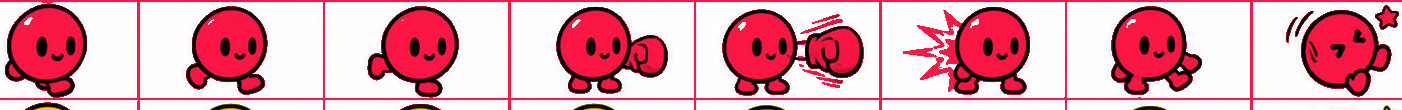
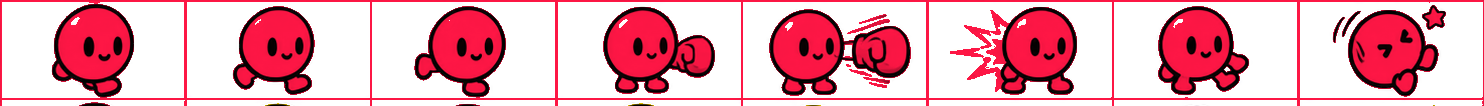
크림슨~라즈베리 기본형 스프라이트 배경 투명 처리 재작업
기존 개별 스프라이트 파일(crimson_sheet.png 등)의 알파 채널이 깨져
있어(배경 픽셀에 알파 값과 색상이 뒤섞여 들어감) 게임 필드 위에서
캐릭터 주위로 어두운 사각형 얼룩이 보이는 문제가 있었다.

원본 흰 배경 시트(new-characters-basic-combat-sheet.png, 배경 픽셀이
깨끗한 흰색임을 확인)에서 흰색→투명 변환을 다시 수행하고, 캐릭터별
행을 그대로 잘라 10개 파일을 재생성했다. 좌표는 원래 위치를 유지한
채 각 파일의 세로 오프셋만 반영해 game.js의 NEW_ATLASES 좌표를
갱신했다(진화형 시트는 이미 정상이라 변경 없음).

투명 배경을 어두운 배경(#151b2a) 위에 합성해 얼룩 없음을 픽셀 단위로
확인, 48스테이지 시뮬레이션 및 10명 전원 전체 프레임 순회로 에러 없음
확인, 실제 게임 화면 스크린샷으로 깨끗한 렌더링 확인.

diff --git a/game.js b/game.js
@@ -448,15 +448,15 @@ croco:{"scale": 0.72, "left": -10, "walk": [[1, 28, 85, 42], [89, 28, 85, 42], [
 
  pigge:{scale:.8,left:-20,walk:[[4,1,103,77],[4,79,103,76],[4,157,103,76],[115,5,104,73],[112,80,109,76],[115,158,104,75]],attack:[[225,1,126,104],[225,107,126,67],[225,177,126,67]],hurt:[[355,3,124,65],[368,72,103,65]]},
  crimson:{scale:0.65,left:-7,sheet:CRIMSON_SHEET,walk:[[4,3,83,95],[186,6,81,89],[367,6,91,92]],attack:[[556,6,111,89],[722,9,141,86],[1111,6,90,88]],hurt:[[1286,5,112,91]],evolved:{sheet:NEWCHAR_EVOLVED_SHEET,walk:[[55,2,76,104],[235,2,74,104],[414,2,83,104]],attack:[[605,2,107,104],[772,2,133,104],[1158,3,89,103]],hurt:[[1333,4,112,93]]}},
- gold:{scale:0.7,left:-8,sheet:GOLD_SHEET,walk:[[4,4,80,90],[188,4,78,88],[370,4,86,90]],attack:[[551,4,111,90],[724,4,149,90],[1106,4,124,90]],hurt:[[1284,4,115,90]],evolved:{sheet:NEWCHAR_EVOLVED_SHEET,walk:[[56,106,71,106],[239,106,71,106],[419,106,78,106]],attack:[[601,106,107,106],[773,106,145,106],[1161,106,118,106]],hurt:[[1333,106,114,106]]}},
- ivory:{scale:0.7,left:-8,sheet:IVORY_SHEET,walk:[[4,4,80,85],[186,4,79,84],[364,4,93,85]],attack:[[549,4,119,85],[725,4,152,85],[1106,4,91,84]],hurt:[[1283,4,116,84]],evolved:{sheet:NEWCHAR_EVOLVED_SHEET,walk:[[40,212,83,106],[232,212,75,106],[413,212,82,106]],attack:[[583,212,131,106],[761,212,164,106],[1149,212,82,106]],hurt:[[1332,212,115,106]]}},
- chartreuse:{scale:0.7,left:-7,sheet:CHARTREUSE_SHEET,walk:[[4,4,79,77],[188,4,78,77],[367,4,89,77]],attack:[[548,4,136,77],[728,4,146,77],[1107,4,99,76]],hurt:[[1285,4,114,77]],evolved:{sheet:NEWCHAR_EVOLVED_SHEET,walk:[[52,318,70,106],[236,318,71,106],[417,318,78,106]],attack:[[599,318,130,106],[780,318,137,106],[1161,318,88,106]],hurt:[[1334,318,114,106]]}},
- mint:{scale:0.7,left:-8,sheet:MINT_SHEET,walk:[[4,4,80,70],[187,4,80,69],[370,4,89,70]],attack:[[549,4,123,69],[726,4,149,70],[1106,4,91,69]],hurt:[[1285,4,117,70]],evolved:{sheet:NEWCHAR_EVOLVED_SHEET,walk:[[49,424,74,106],[234,424,73,106],[414,424,81,106]],attack:[[593,424,124,106],[767,424,151,106],[1154,424,82,106]],hurt:[[1333,424,117,106]]}},
- azure:{scale:0.55,left:-13,sheet:AZURE_SHEET,walk:[[4,4,123,80],[187,4,123,77],[374,4,121,75]],attack:[[555,4,117,75],[746,4,132,79],[1111,4,124,77]],hurt:[[1299,4,130,77]],evolved:{sheet:NEWCHAR_EVOLVED_SHEET,walk:[[41,530,118,106],[224,530,120,106],[409,530,117,106]],attack:[[591,530,117,106],[784,530,125,106],[1148,530,123,106]],hurt:[[1338,530,127,106]]}},
- crystal:{scale:0.7,left:-8,sheet:CRYSTAL_SHEET,walk:[[4,4,80,74],[186,4,81,74],[370,4,88,75]],attack:[[541,4,87,74],[725,4,116,74],[1108,4,77,72]],hurt:[[1285,4,113,75]],evolved:{sheet:NEWCHAR_EVOLVED_SHEET,walk:[[56,636,70,106],[239,636,67,106],[423,636,74,106]],attack:[[602,636,74,106],[782,636,86,106],[1162,636,72,106]],hurt:[[1334,636,112,106]]}},
- lavender:{scale:0.7,left:-8,sheet:LAVENDER_SHEET,walk:[[4,4,81,70],[184,4,83,70],[366,4,94,70]],attack:[[545,4,136,70],[728,4,152,70],[1105,4,115,70]],hurt:[[1274,4,146,70]],evolved:{sheet:NEWCHAR_EVOLVED_SHEET,walk:[[55,742,75,106],[233,742,80,106],[413,742,90,106]],attack:[[599,742,125,106],[775,742,150,106],[1157,742,107,106]],hurt:[[1318,742,147,106]]}},
- salmon:{scale:0.7,left:-9,sheet:SALMON_SHEET,walk:[[4,4,84,70],[184,4,86,70],[368,4,95,72]],attack:[[540,4,145,72],[726,4,131,72],[1102,4,129,70]],hurt:[[1271,4,148,73]],evolved:{sheet:NEWCHAR_EVOLVED_SHEET,walk:[[46,848,78,106],[233,848,74,106],[415,848,80,106]],attack:[[590,848,139,106],[768,848,128,106],[1152,848,124,106]],hurt:[[1315,848,148,106]]}},
- raspberry:{scale:0.7,left:-9,sheet:RASPBERRY_SHEET,walk:[[4,4,84,81],[184,4,86,81],[368,4,92,81]],attack:[[539,4,144,82],[723,4,146,82],[1108,4,133,83]],hurt:[[1267,4,140,95]],evolved:{sheet:NEWCHAR_EVOLVED_SHEET,walk:[[30,954,95,95],[216,954,93,94],[408,954,88,95]],attack:[[577,954,149,93],[754,954,154,94],[1139,954,148,93]],hurt:[[1319,954,123,93]]}},
+ gold:{scale:0.7,left:-8,sheet:GOLD_SHEET,walk:[[53,0,80,106],[237,0,78,106],[419,0,86,106]],attack:[[600,0,111,106],[773,0,149,106],[1155,0,124,106]],hurt:[[1333,0,115,106]],evolved:{sheet:NEWCHAR_EVOLVED_SHEET,walk:[[56,106,71,106],[239,106,71,106],[419,106,78,106]],attack:[[601,106,107,106],[773,106,145,106],[1161,106,118,106]],hurt:[[1333,106,114,106]]}},
+ ivory:{scale:0.7,left:-8,sheet:IVORY_SHEET,walk:[[53,0,80,106],[235,0,79,106],[413,0,93,106]],attack:[[598,0,119,106],[774,0,152,106],[1155,0,91,106]],hurt:[[1332,0,116,106]],evolved:{sheet:NEWCHAR_EVOLVED_SHEET,walk:[[40,212,83,106],[232,212,75,106],[413,212,82,106]],attack:[[583,212,131,106],[761,212,164,106],[1149,212,82,106]],hurt:[[1332,212,115,106]]}},
+ chartreuse:{scale:0.7,left:-7,sheet:CHARTREUSE_SHEET,walk:[[53,0,79,106],[237,0,78,106],[416,0,89,106]],attack:[[597,0,136,106],[777,0,146,106],[1156,0,99,106]],hurt:[[1334,0,114,106]],evolved:{sheet:NEWCHAR_EVOLVED_SHEET,walk:[[52,318,70,106],[236,318,71,106],[417,318,78,106]],attack:[[599,318,130,106],[780,318,137,106],[1161,318,88,106]],hurt:[[1334,318,114,106]]}},
+ mint:{scale:0.7,left:-8,sheet:MINT_SHEET,walk:[[52,0,80,106],[235,0,80,106],[418,0,89,106]],attack:[[597,0,123,106],[774,0,149,106],[1154,0,91,106]],hurt:[[1333,0,117,106]],evolved:{sheet:NEWCHAR_EVOLVED_SHEET,walk:[[49,424,74,106],[234,424,73,106],[414,424,81,106]],attack:[[593,424,124,106],[767,424,151,106],[1154,424,82,106]],hurt:[[1333,424,117,106]]}},
+ azure:{scale:0.55,left:-13,sheet:AZURE_SHEET,walk:[[41,0,123,106],[224,0,123,106],[411,0,121,106]],attack:[[592,0,117,106],[783,0,132,106],[1148,0,124,106]],hurt:[[1336,0,130,106]],evolved:{sheet:NEWCHAR_EVOLVED_SHEET,walk:[[41,530,118,106],[224,530,120,106],[409,530,117,106]],attack:[[591,530,117,106],[784,530,125,106],[1148,530,123,106]],hurt:[[1338,530,127,106]]}},
+ crystal:{scale:0.7,left:-8,sheet:CRYSTAL_SHEET,walk:[[52,0,80,106],[234,0,81,106],[418,0,88,106]],attack:[[589,0,87,106],[773,0,116,106],[1156,0,77,106]],hurt:[[1333,0,113,106]],evolved:{sheet:NEWCHAR_EVOLVED_SHEET,walk:[[56,636,70,106],[239,636,67,106],[423,636,74,106]],attack:[[602,636,74,106],[782,636,86,106],[1162,636,72,106]],hurt:[[1334,636,112,106]]}},
+ lavender:{scale:0.7,left:-8,sheet:LAVENDER_SHEET,walk:[[50,0,81,106],[230,0,83,106],[412,0,94,106]],attack:[[591,0,136,106],[774,0,152,106],[1151,0,115,106]],hurt:[[1320,0,146,106]],evolved:{sheet:NEWCHAR_EVOLVED_SHEET,walk:[[55,742,75,106],[233,742,80,106],[413,742,90,106]],attack:[[599,742,125,106],[775,742,150,106],[1157,742,107,106]],hurt:[[1318,742,147,106]]}},
+ salmon:{scale:0.7,left:-9,sheet:SALMON_SHEET,walk:[[49,0,84,106],[229,0,86,106],[413,0,95,106]],attack:[[585,0,145,106],[771,0,131,106],[1147,0,129,106]],hurt:[[1316,0,148,106]],evolved:{sheet:NEWCHAR_EVOLVED_SHEET,walk:[[46,848,78,106],[233,848,74,106],[415,848,80,106]],attack:[[590,848,139,106],[768,848,128,106],[1152,848,124,106]],hurt:[[1315,848,148,106]]}},
+ raspberry:{scale:0.7,left:-9,sheet:RASPBERRY_SHEET,walk:[[50,0,84,81],[230,0,86,81],[414,0,92,81]],attack:[[585,0,144,82],[769,0,146,82],[1154,0,133,83]],hurt:[[1313,0,140,95]],evolved:{sheet:NEWCHAR_EVOLVED_SHEET,walk:[[30,954,95,95],[216,954,93,94],[408,954,88,95]],attack:[[577,954,149,93],[754,954,154,94],[1139,954,148,93]],hurt:[[1319,954,123,93]]}},
  guys:{scale:1,left:0,walk:[[30,40,43,32],[90,40,42,32],[150,40,43,32],[210,40,43,32],[270,40,43,32]],attack:[[30,100,43,32],[90,100,48,32],[150,100,51,32],[210,100,54,32],[270,87,63,45],[30,147,64,45],[100,154,56,38],[160,154,56,38],[220,161,43,31]],hurt:[[33,221,41,31]]},
  hippo:{scale:.9,left:-26,walk:[[1,24,105,78],[113,24,105,78],[226,24,104,78]],attack:[[337,4,99,98],[1,104,99,101],[113,118,110,87],[225,140,109,65],[338,127,104,78]]}
 };
